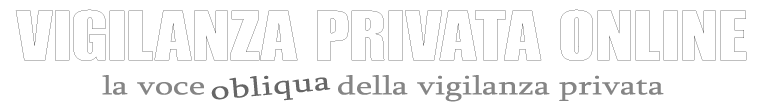
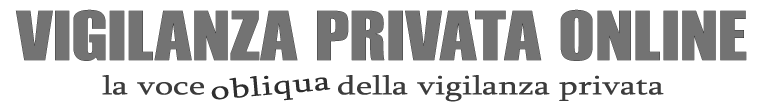
fix(home): Citati su verde piu' presente + loghi leggibili senza box
- FeaturedIn: bg verde #d3e6b0, rimosso mix-blend-multiply (spegneva i loghi chiari)
- HR logo -> PNG trasparente (niente box grigio quando libero)
- Vigilanza logo scurito (outline grigio chiaro ora leggibile)

diff --git a/src/components/FeaturedIn.tsx b/src/components/FeaturedIn.tsx
@@ -22,10 +22,9 @@ const LABEL: Record<string, string> = {
 const styles = `
 .featured-in-logo {
   transition: transform .3s ease, filter .3s ease;
-  filter: saturate(0.9);
+  filter: saturate(0.95);
 }
 .featured-in-logo:hover { transform: scale(1.1); filter: saturate(1.15); }
-.featured-in-logo img { mix-blend-mode: multiply; }
 `;
 
 export default function FeaturedIn({ locale }: { locale: string }) {
@@ -45,7 +44,7 @@ export default function FeaturedIn({ locale }: { locale: string }) {
         padding: '56px 24px 76px',
         position: 'relative',
         overflow: 'hidden',
-        background: 'linear-gradient(180deg, #eef6de 0%, #f5faec 100%)',
+        background: 'linear-gradient(180deg, #d3e6b0 0%, #e0eec6 100%)',
       }}
     >
       <style dangerouslySetInnerHTML={{ __html: styles }} />
@@ -61,7 +60,7 @@ export default function FeaturedIn({ locale }: { locale: string }) {
           fontFamily: 'var(--font-poppins, Poppins, sans-serif)',
           fontSize: 'clamp(56px, 11vw, 130px)',
           fontWeight: 900,
-          color: 'rgba(122, 158, 54, 0.16)',
+          color: 'rgba(90, 120, 40, 0.15)',
           textTransform: 'uppercase',
           letterSpacing: '0.04em',
           whiteSpace: 'nowrap',

diff --git a/src/lib/press/data.ts b/src/lib/press/data.ts
@@ -34,7 +34,7 @@ export const PRESS_COVERAGE: PressItem[] = [
     title: 'Presenze, GPS e art. 4: dove finisce la prova e dove comincia la sorveglianza',
     url: 'https://www.risorseumane-hr.it/presenze-gps-articolo-4/',
     locale: 'it',
-    logo: '/press/logoHR.jpg',
+    logo: '/press/logoHR.png',
   },
 ];
 
